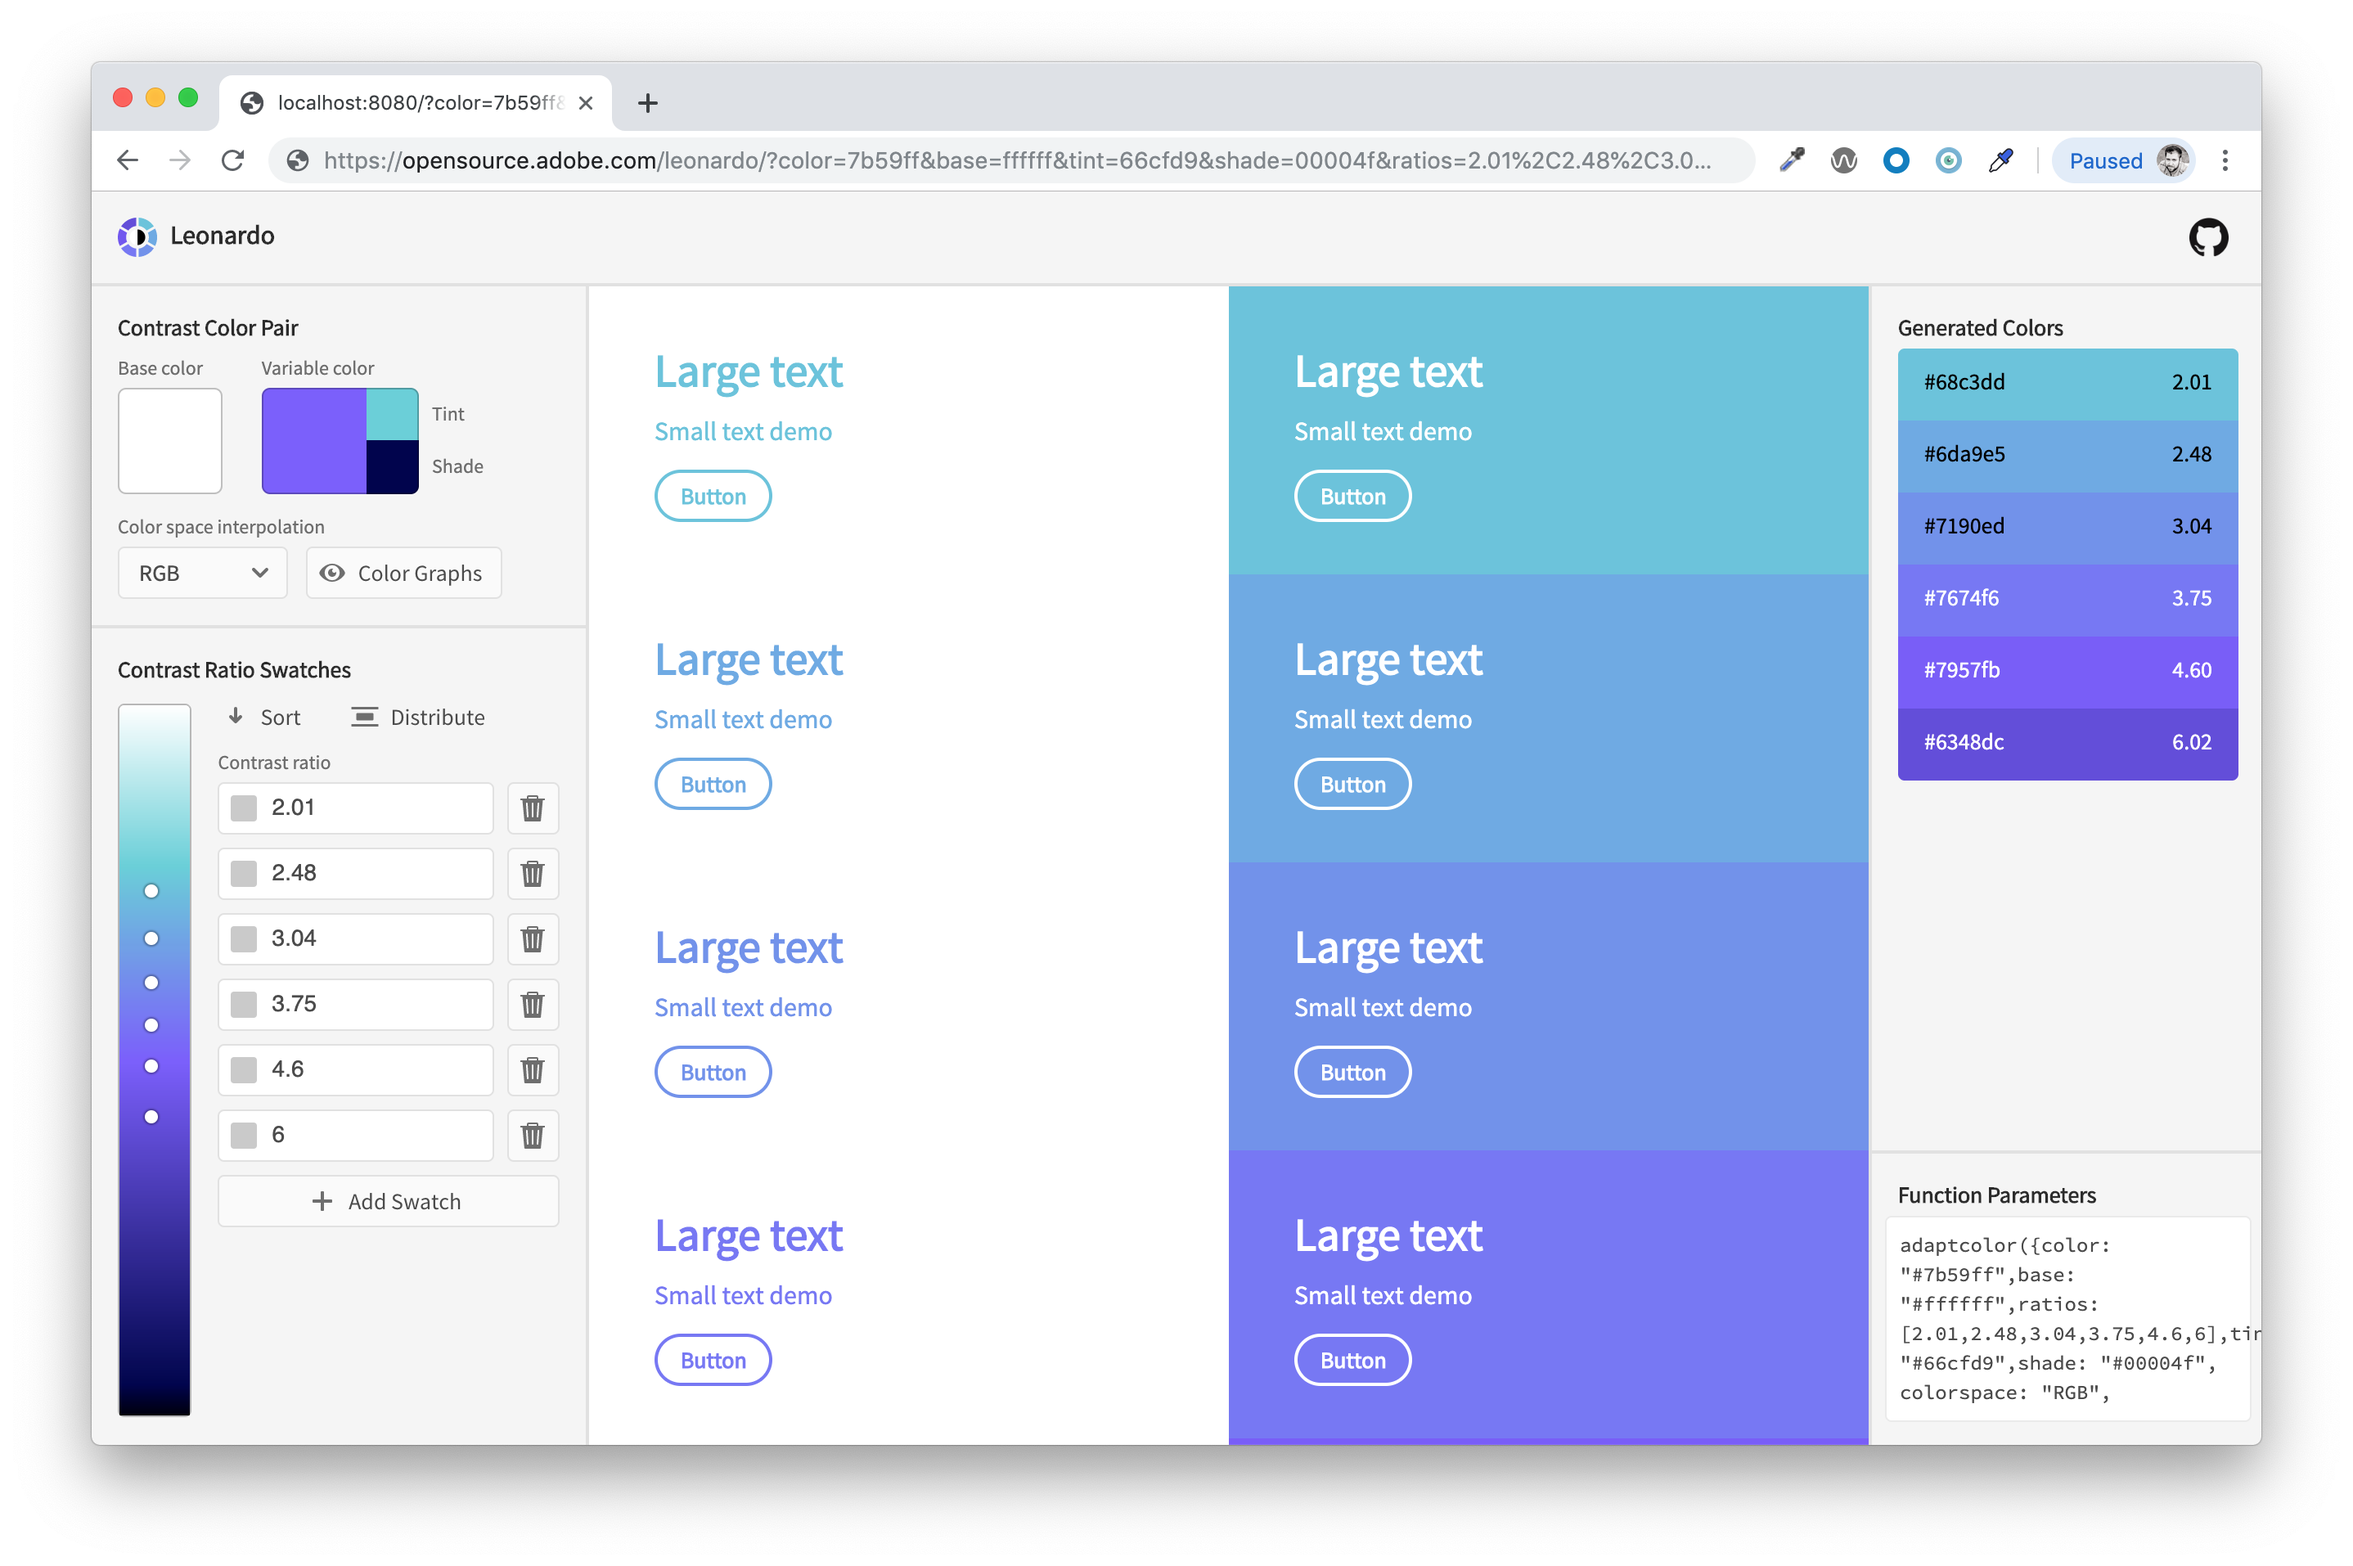
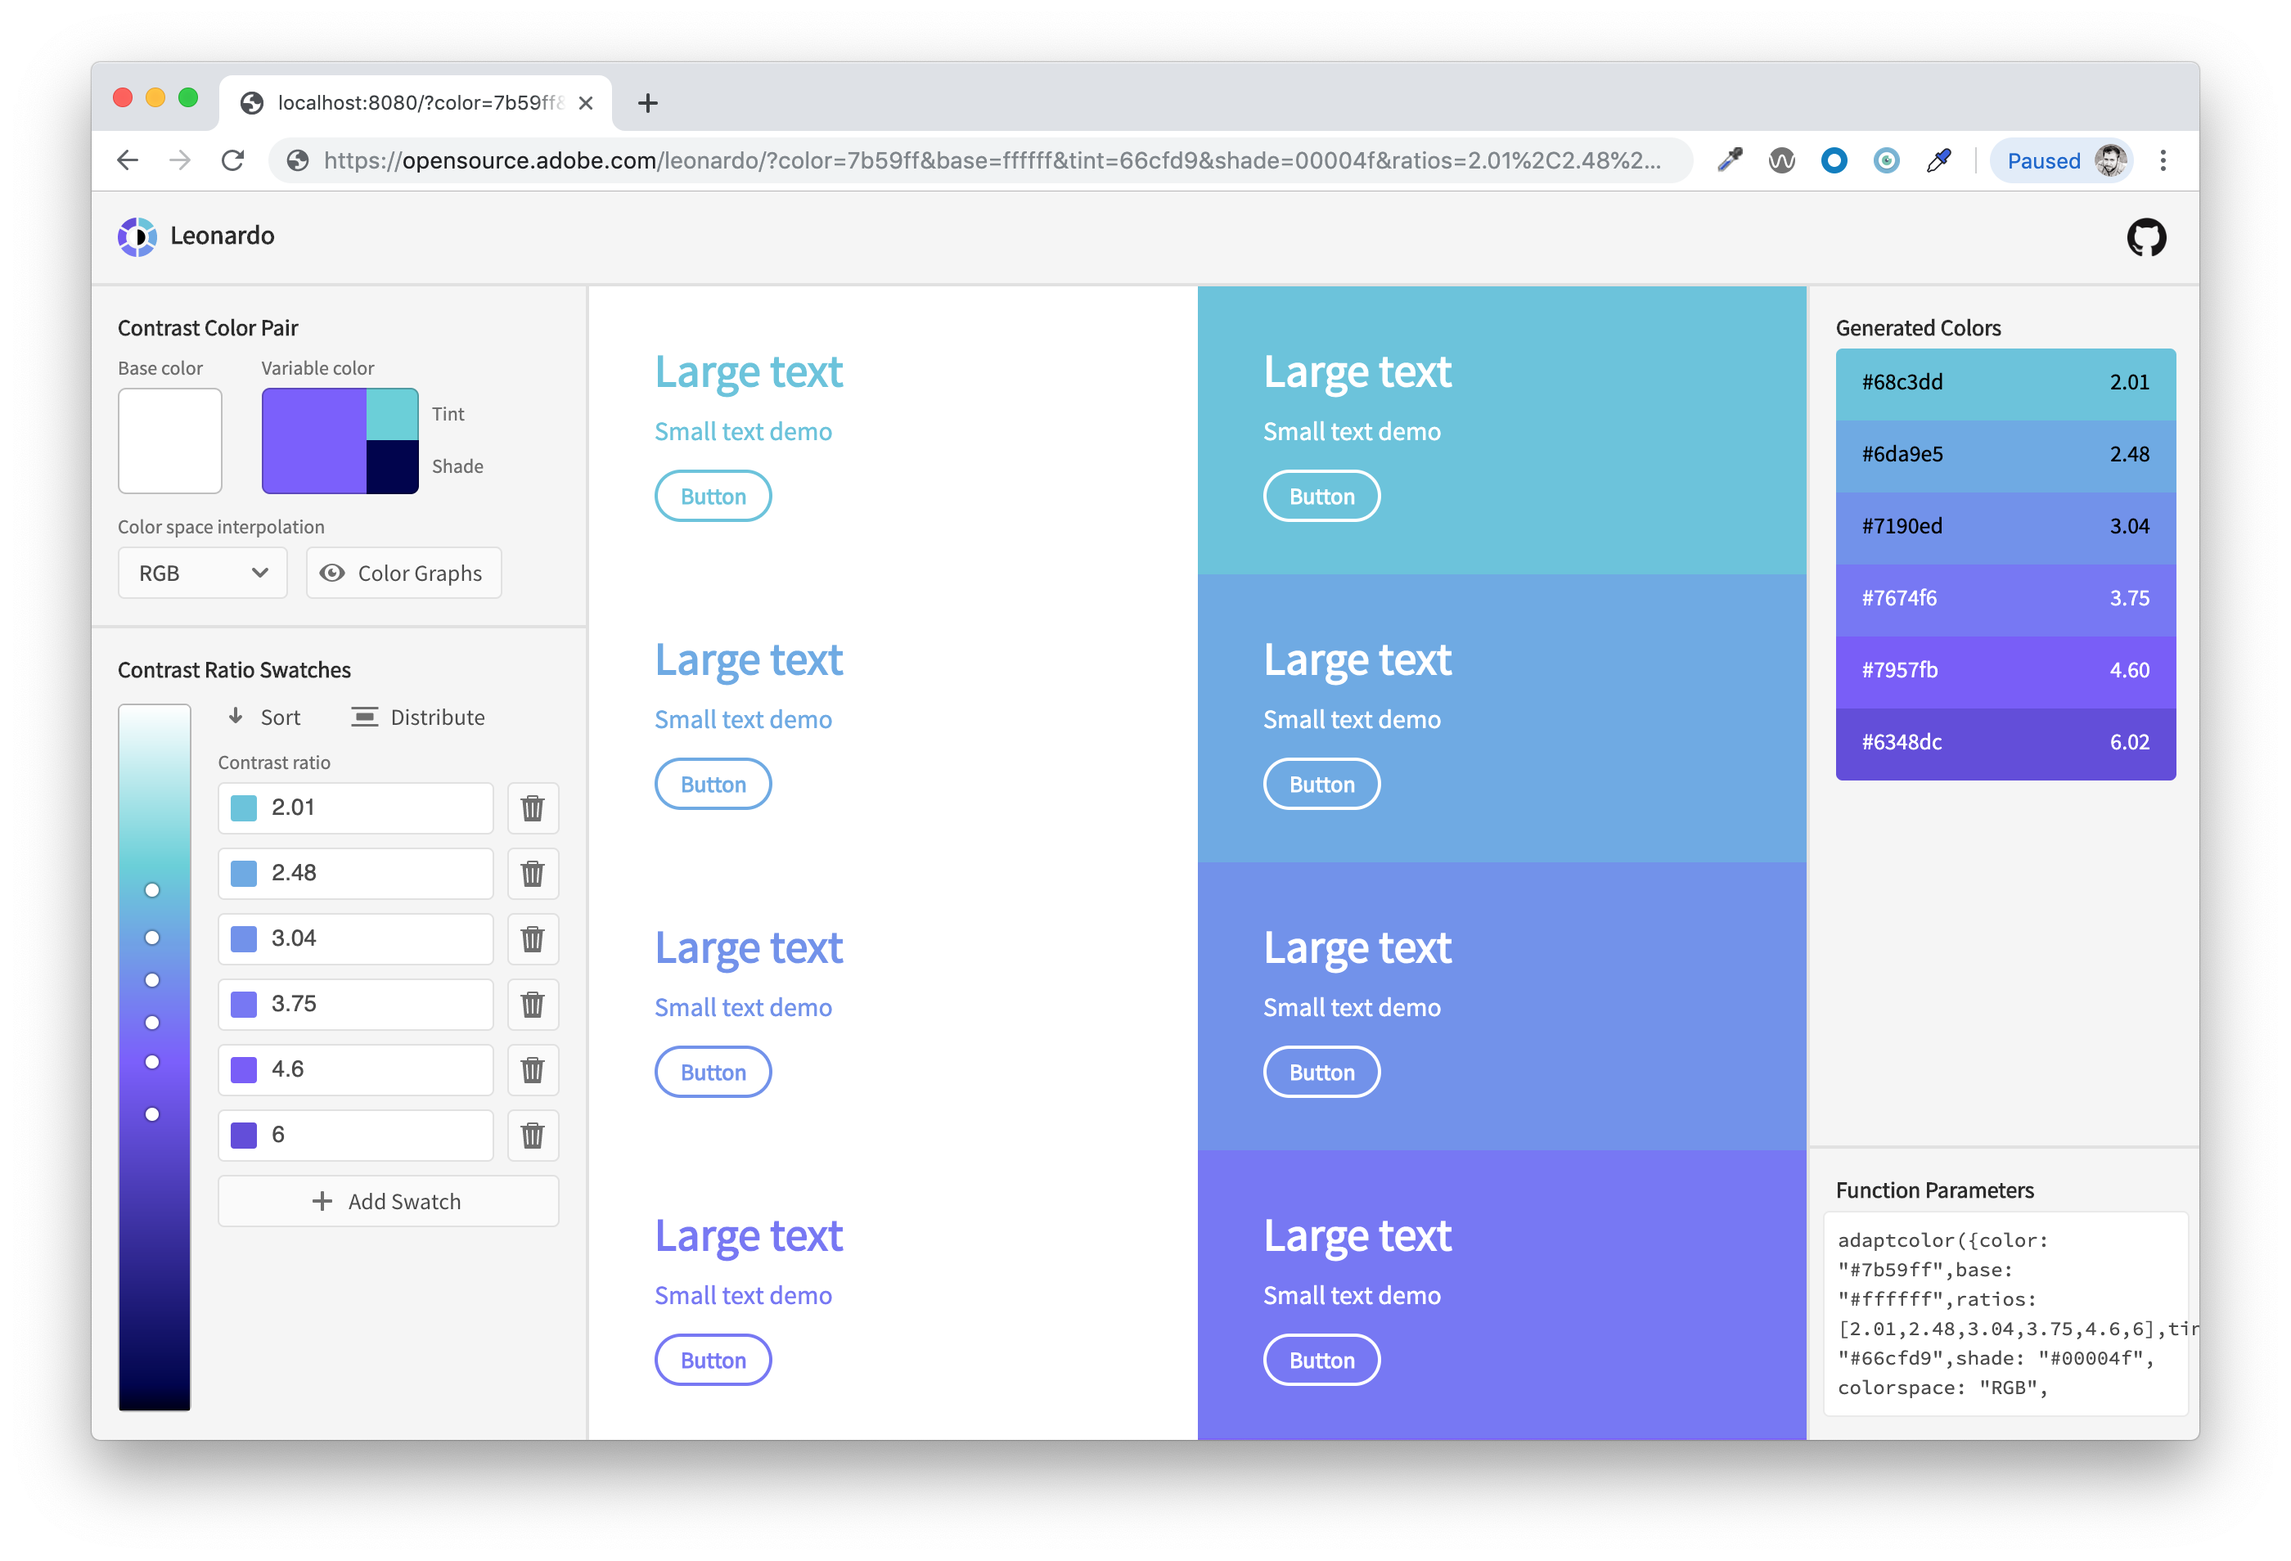
added color to input swatches. Updated screenshot

diff --git a/script.js b/script.js
@@ -13,7 +13,7 @@ var color1 = document.getElementById('colorField1').value;
 var colorTint = document.getElementById('colorField2').value;
 var colorShade = document.getElementById('colorField3').value;
 var background = document.getElementById('bgField').value;
-var colorBlock = document.getElementById('color');
+// var colorBlock = document.getElementById('color');
 var demoHeading = document.getElementById('demoHeading');
 var demoWrapper = document.getElementById('demoWrapper');
 var demoText = document.getElementById('demoText');
@@ -69,11 +69,6 @@ function paramSetup() {
   }
 }
 paramSetup();
-
-function colorblock(c){
-  colorBlock.style.backgroundColor = c;
-}
-colorblock(color1);
 
 function backgroundblock(b){
   demoWrapper.style.backgroundColor = b;
@@ -289,12 +284,15 @@ function colorInput() {
   adaptcolor({color: color1, base: background, ratios: ratioInputs, tint: colorTint, shade: colorShade, colorspace: mode});
 
   for(i=0; i<newColors.length; i++) {
-    colorblock(newColors[i])
     // Calculate value of color and apply to slider position/value
     var val = d3.hsluv(newColors[i]).v;
     // Find corresponding input/slider id
     var slider = document.getElementById(rfIds[i] + '-sl')
     slider.value = val;
+
+    // apply color to subsequent swatch
+    var swatch = document.getElementById(rfIds[i] + '-sw')
+    swatch.style.backgroundColor = newColors[i];
   }
 
   // Generate Gradient
